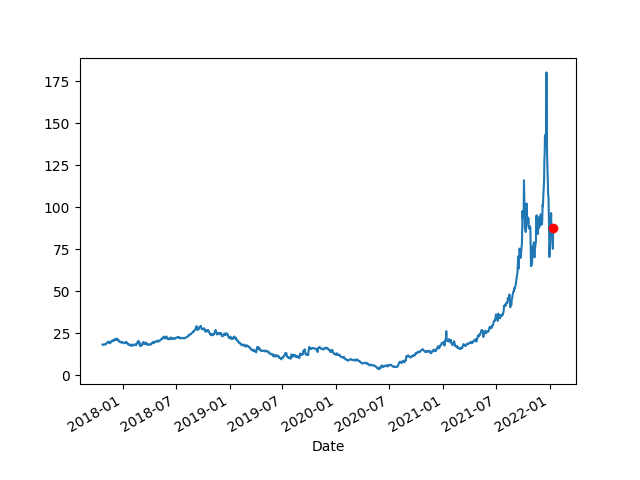
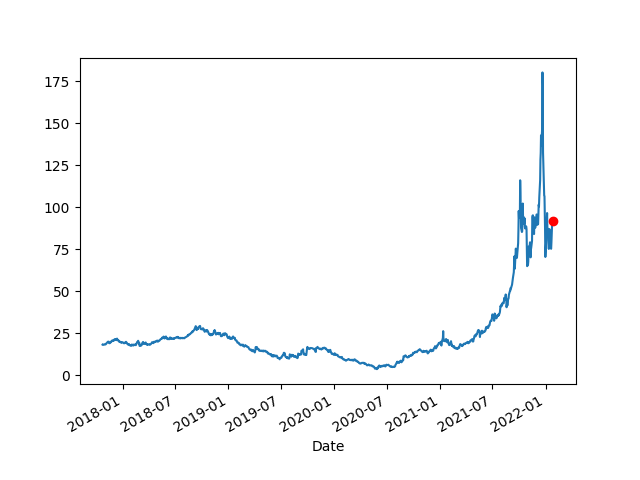
-

diff --git a/en/2019/05/stats.md b/en/2019/05/stats.md
@@ -851,13 +851,13 @@ plt.savefig('eunatgas.png')
 
 ```text
 Date
-2022-01-07    88.174004
-2022-01-10    84.607002
-2022-01-11    78.736000
-2022-01-12    75.153000
-2022-01-13    85.459999
-2022-01-14    86.970001
-2022-01-14    87.355003
+2022-01-20    75.203003
+2022-01-21    78.980003
+2022-01-24    93.000000
+2022-01-25    93.582001
+2022-01-26    91.836998
+2022-01-27    92.301003
+2022-01-28    92.061996
 Name: Adj Close, dtype: float64
 ```
 
